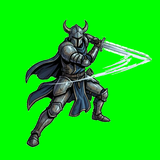
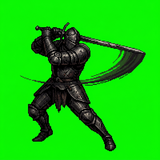
fix: improve main knight

Changed region(s): [[0.125, 0.125, 0.9688, 0.9688]]

diff --git a/tools/scale_character.py b/tools/scale_character.py
@@ -1,0 +1,45 @@
+import os
+from PIL import Image
+
+def scale_image(input_path, output_path, scale_factor=0.75):
+    img = Image.open(input_path).convert("RGBA")
+    w, h = img.size
+    
+    # Calculate new size
+    new_w = int(w * scale_factor)
+    new_h = int(h * scale_factor)
+    
+    # Scale character
+    scaled_img = img.resize((new_w, new_h), Image.Resampling.LANCZOS)
+    
+    # Create new transparent canvas
+    new_canvas = Image.new("RGBA", (w, h), (0, 255, 0, 255))
+    
+    # Paste scaled character centered
+    paste_x = (w - new_w) // 2
+    paste_y = (h - new_h) // 2
+    
+    # If the original image had transparency represented by lime green, 
+    # we should handle it. But the prompt said the background is lime green.
+    # We'll just paste the scaled image on the new lime green canvas.
+    new_canvas.paste(scaled_img, (paste_x, paste_y), scaled_img)
+    
+    new_canvas.save(output_path)
+    print(f"Scaled {input_path} to {output_path}")
+
+if __name__ == "__main__":
+    # Source paths (the original high-res generated images)
+    sources = {
+        "static.png": "/Users/diegoj/.gemini/antigravity/brain/5203640c-9129-4122-886c-4ff7a903e705/knight_static_hades_style_1772400491688.png",
+        "attack.png": "/Users/diegoj/.gemini/antigravity/brain/5203640c-9129-4122-886c-4ff7a903e705/knight_attack_hades_style_1772400503281.png",
+        "corpse.png": "/Users/diegoj/.gemini/antigravity/brain/5203640c-9129-4122-886c-4ff7a903e705/knight_corpse_hades_style_1772400516255.png"
+    }
+    
+    output_dir = "assets/images/characters/main"
+    
+    for filename, source_path in sources.items():
+        output_path = os.path.join(output_dir, filename)
+        if os.path.exists(source_path):
+            scale_image(source_path, output_path, scale_factor=0.30)
+        else:
+            print(f"Warning: source {source_path} not found.")
